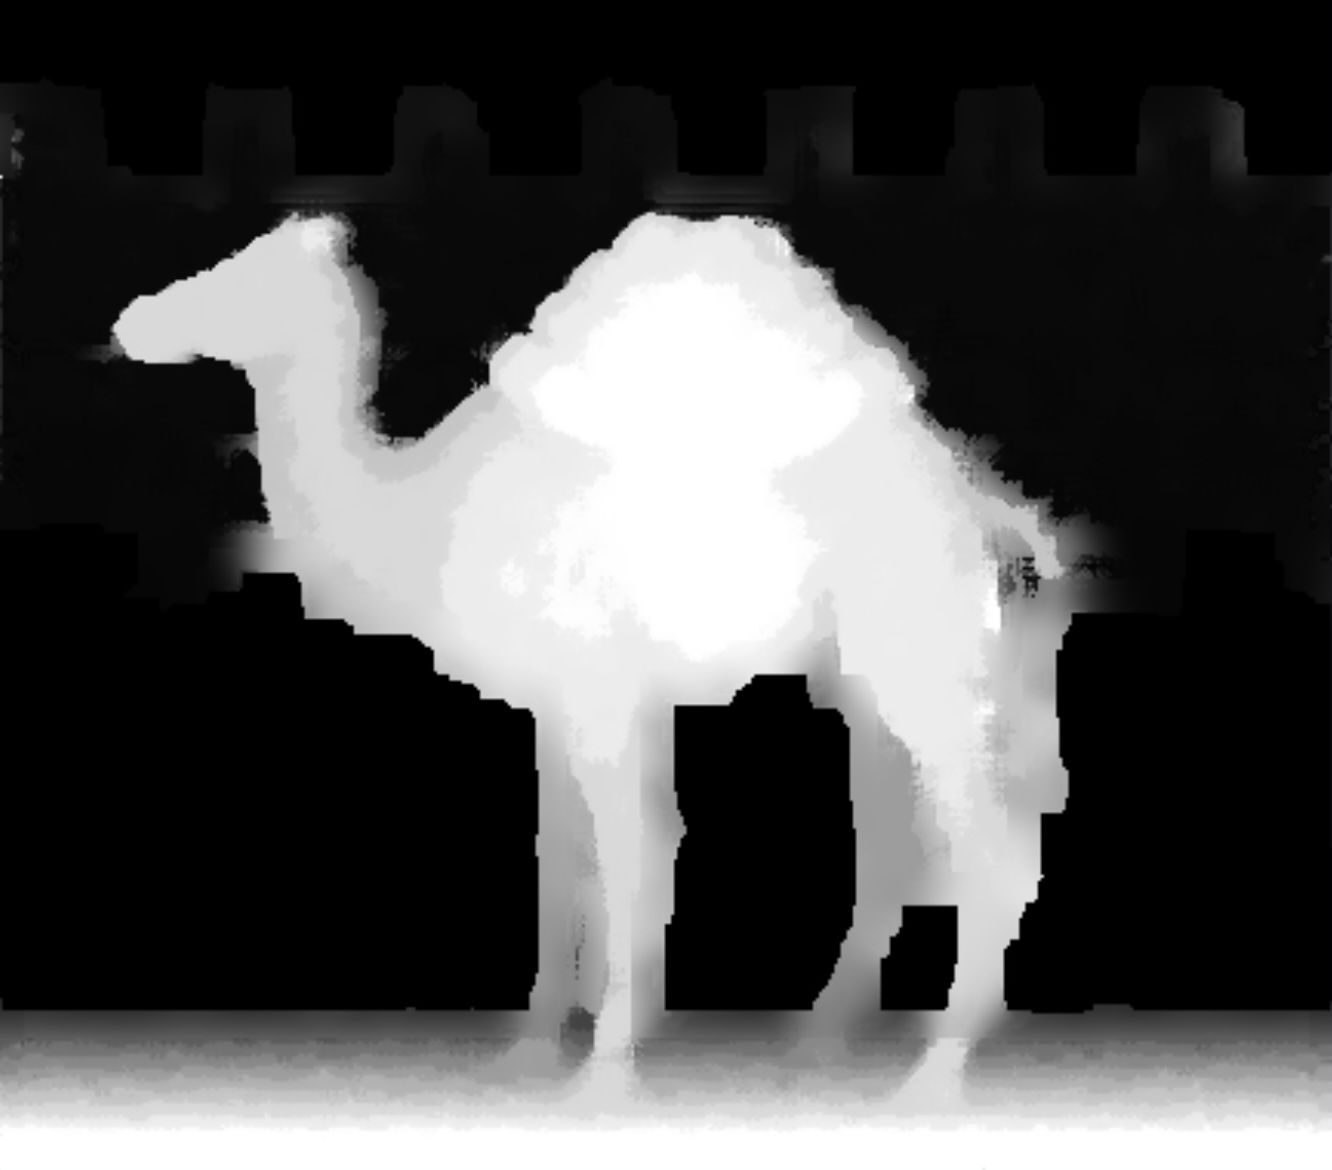
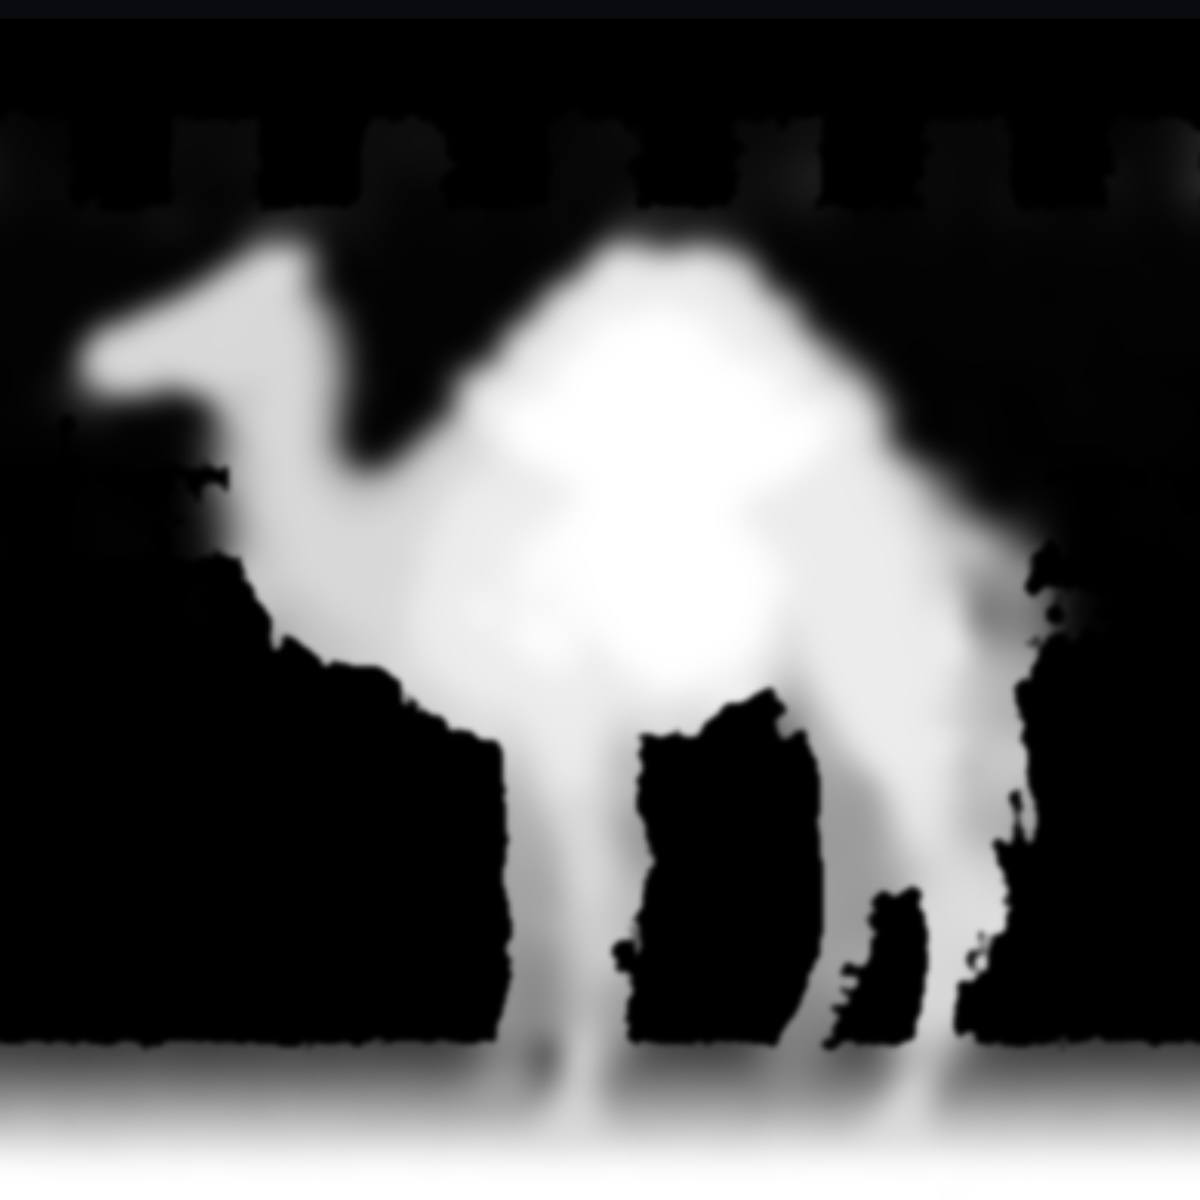
Update README

diff --git a/README.md b/README.md
@@ -9,7 +9,7 @@ An [autostereogram](https://en.wikipedia.org/wiki/Autostereogram) and depth map 
   <img src="src/demo/depth.jpg" alt="Reconstructed camel depth map" height="256"><br>
   ↓<br>
   3D surface<br>
-  <video src="https://github.com/user-attachments/assets/64e0dce7-1e36-4c20-89b7-d53d04603865" height="256" controls></video>
+  <img src="src/demo/example.gif" alt="3D surface" height="256"><br>
 </p>
 
 ## Features